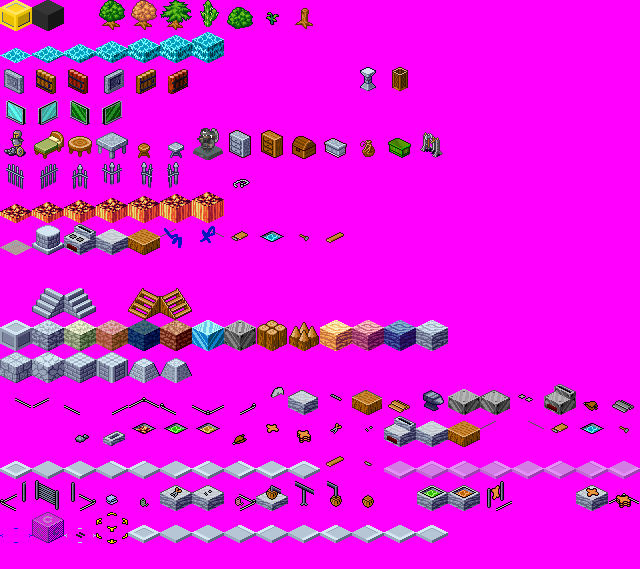
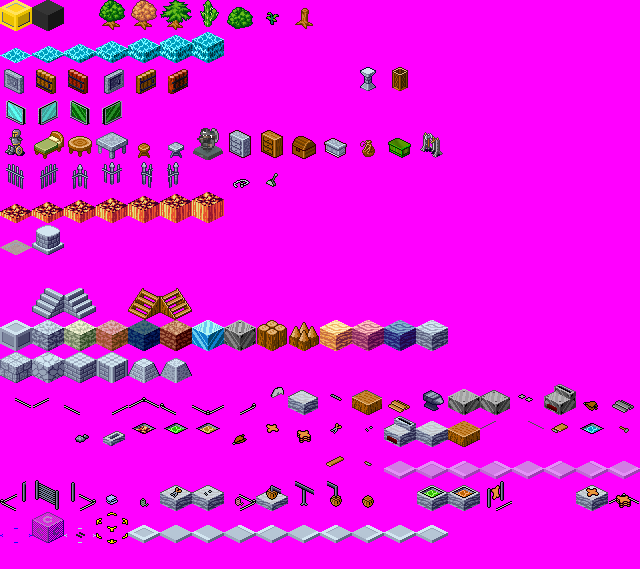
Added lavastone floor. Added Lever building. Added a bunch of new creatures from the community.
git-svn-id: http://stonesense.googlecode.com/svn/trunk@87 4d48de78-bd66-11de-9616-7b1d4728551e

diff --git a/SpriteMaps.cpp b/SpriteMaps.cpp
@@ -288,10 +288,6 @@ int GetFloorSpriteMap(int in, int matIndex){
 			//        case 262: //Ice floor
 			case 264: //Lava bottom of map
 
-			case 340: //lavastone floor 1 (raw stone)
-			case 341: //lavastone floor 2 (raw stone)
-			case 342: //lavastone floor 3 (raw stone)
-			case 343: //lavastone floor 4 (raw stone)
 			case 344: //featstone floor 1 (raw stone)
 			case 345: //featstone floor 2 (raw stone)
 			case 346: //featstone floor 3 (raw stone)
@@ -366,6 +362,12 @@ int GetFloorSpriteMap(int in, int matIndex){
 			case 400: //grass floor3b
 			case 401: //grass floor4b
 				return SPRITEFLOOR_GRASS; 
+
+      case 340: //lavastone floor 1 (raw stone)
+			case 341: //lavastone floor 2 (raw stone)
+			case 342: //lavastone floor 3 (raw stone)
+			case 343: //lavastone floor 4 (raw stone)
+        return SPRITEFLOOR_LAVASTONE;
 
 
 			case 336: //stone floor 1 (raw stone)

diff --git a/dfhack/library/DFTypes.h b/dfhack/library/DFTypes.h
@@ -174,8 +174,8 @@ enum MatglossType
 {
     Mat_Wood,
     Mat_Stone,
-    Mat_Plant,
     Mat_Metal,
+    Mat_Plant,
     Mat_Leather = 10,
     Mat_SilkCloth = 11,
     Mat_PlantCloth = 12,

diff --git a/SpriteMaps.h b/SpriteMaps.h
@@ -17,6 +17,8 @@ enum enumFloorSprites{
 	SPRITEFLOOR_WOOD = 10,
   SPRITEFLOOR_SNOW = 11,
   SPRITEFLOOR_METAL = 12,
+
+  SPRITEFLOOR_LAVASTONE = 17,
 };
 
 /*
